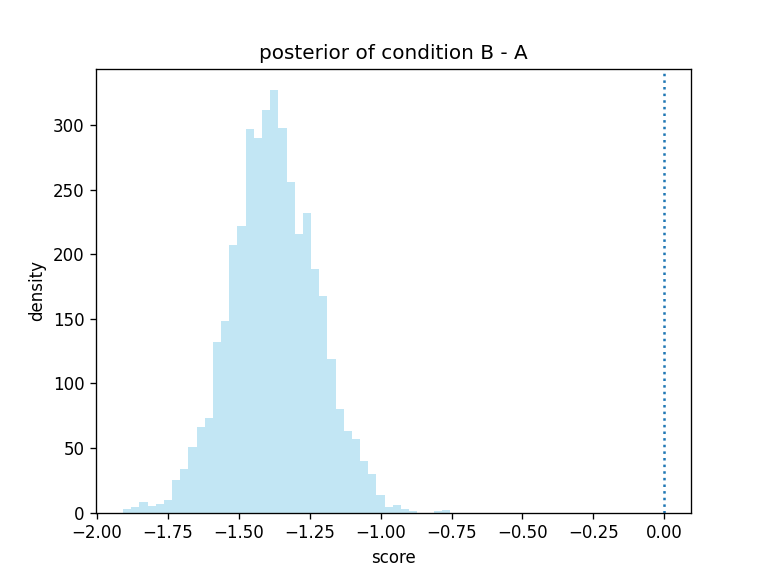
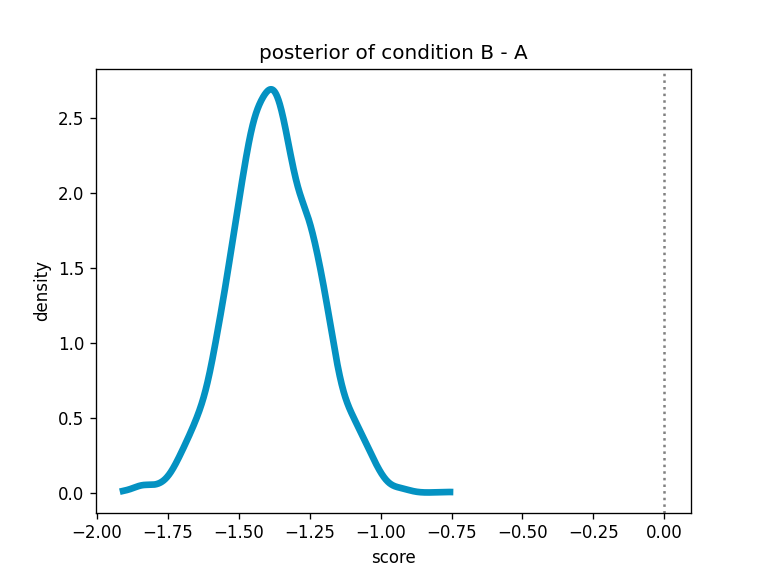
readme PPD

diff --git a/abayes/abayes.py b/abayes/abayes.py
@@ -51,10 +51,11 @@ class ABayes(object):
     likelihood = property(lambda self: self._likelihood)
     priors = property(lambda self: self._priors)
     cmdstan_mcmc = property(lambda self: self._fit)
+    num_draws = property(lambda self: self._fit.num_draws_sampling * self._fit.chains)
 
     def fit(self, data: DataTypes, **cmdstanpy_kwargs) -> ABayes:
         if not hasattr(data, "__iter__"):
-            raise ValueError("Data passed to MiniAb.fit must be an iterable.")
+            raise ValueError("Data passed to ABayes.fit must be an iterable.")
         if isinstance(data, Dict):
             y1, y2 = data.values()
         else:

diff --git a/README.md b/README.md
@@ -116,23 +116,63 @@ from the `mu_diff` distribution directly:
 
 ```python
 import matplotlib.pyplot as plt
+from scipy.stats import gaussian_kde
+
+def density(x):
+    limits = x.min(), x.max()
+    grid = np.linspace(*limits, 1000)
+    return grid, gaussian_kde(x)(grid)
 
 mu_diff = ab.draws["mu_diff"]
 
-plt.hist(mu_diff, bins=40, color="skyblue", alpha=0.5)
-plt.axvline(0, ls=":")
+plt.plot(*density(mu_diff), color="#0492c2", lw=4)
+plt.axvline(0, ls=":", color="gray")
 plt.xlabel("score")
 plt.ylabel("density")
 plt.title("posterior of condition B - A")
 ```
 
-![](docs/b-minus-a.png)
+![](doc/b-minus-a.png)
+
+## Posterior predictive distribution
+ABayes automatically calculates the posterior predictive
+distribution of the data, which is accessible in
+the posterior draws object under the key `y_rep`. 
+This array is in long form, where group A and B's
+predictions are stacked on top of each other.
+Using the example above, we can inspect this
+distribution using a small bit of manipulation
+of the draws:
+
+```python
+y_rep_raw = ab.draws["y_rep"]
+y_reps = y_rep_raw[:, :N], y_rep_raw[:, N:]
+ys = y_a, y_b
+
+fig, ax = plt.subplots(1, 2, figsize=(12, 4))
+for i in range(2):
+    a_or_b = (1 - i) * "A" + i * "B"
+    grid, samples = density(y_reps[i].flatten())
+    ax[i].plot(grid, samples, color="#0492c2", lw=3, label="Posterior predictive")
+    ax[i].plot(ys[i], [0.01]*len(ys[i]), '|', color="black", label="raw")
+    ax[i].set_title(a_or_b)
+    ax[i].set_xlabel("score")
+    ax[i].set_ylabel("density")
+    if not i:
+        ax[i].legend(frameon=False, loc="upper right")
+```
+
+![](doc/ppd.png)
+
+# Likelihood functions
+
+Currently, ABayes supports normal, lognormal, gamma,
+Bernoulli, binomial, and Poisson distributions.
 
 
 ## Under the hood 
 We can in inspect the likelihood distribution and priors via 
 an `ABayes` instance's properties:
-properties:
 
 ```python
 ab.likelihood, ab.priors
